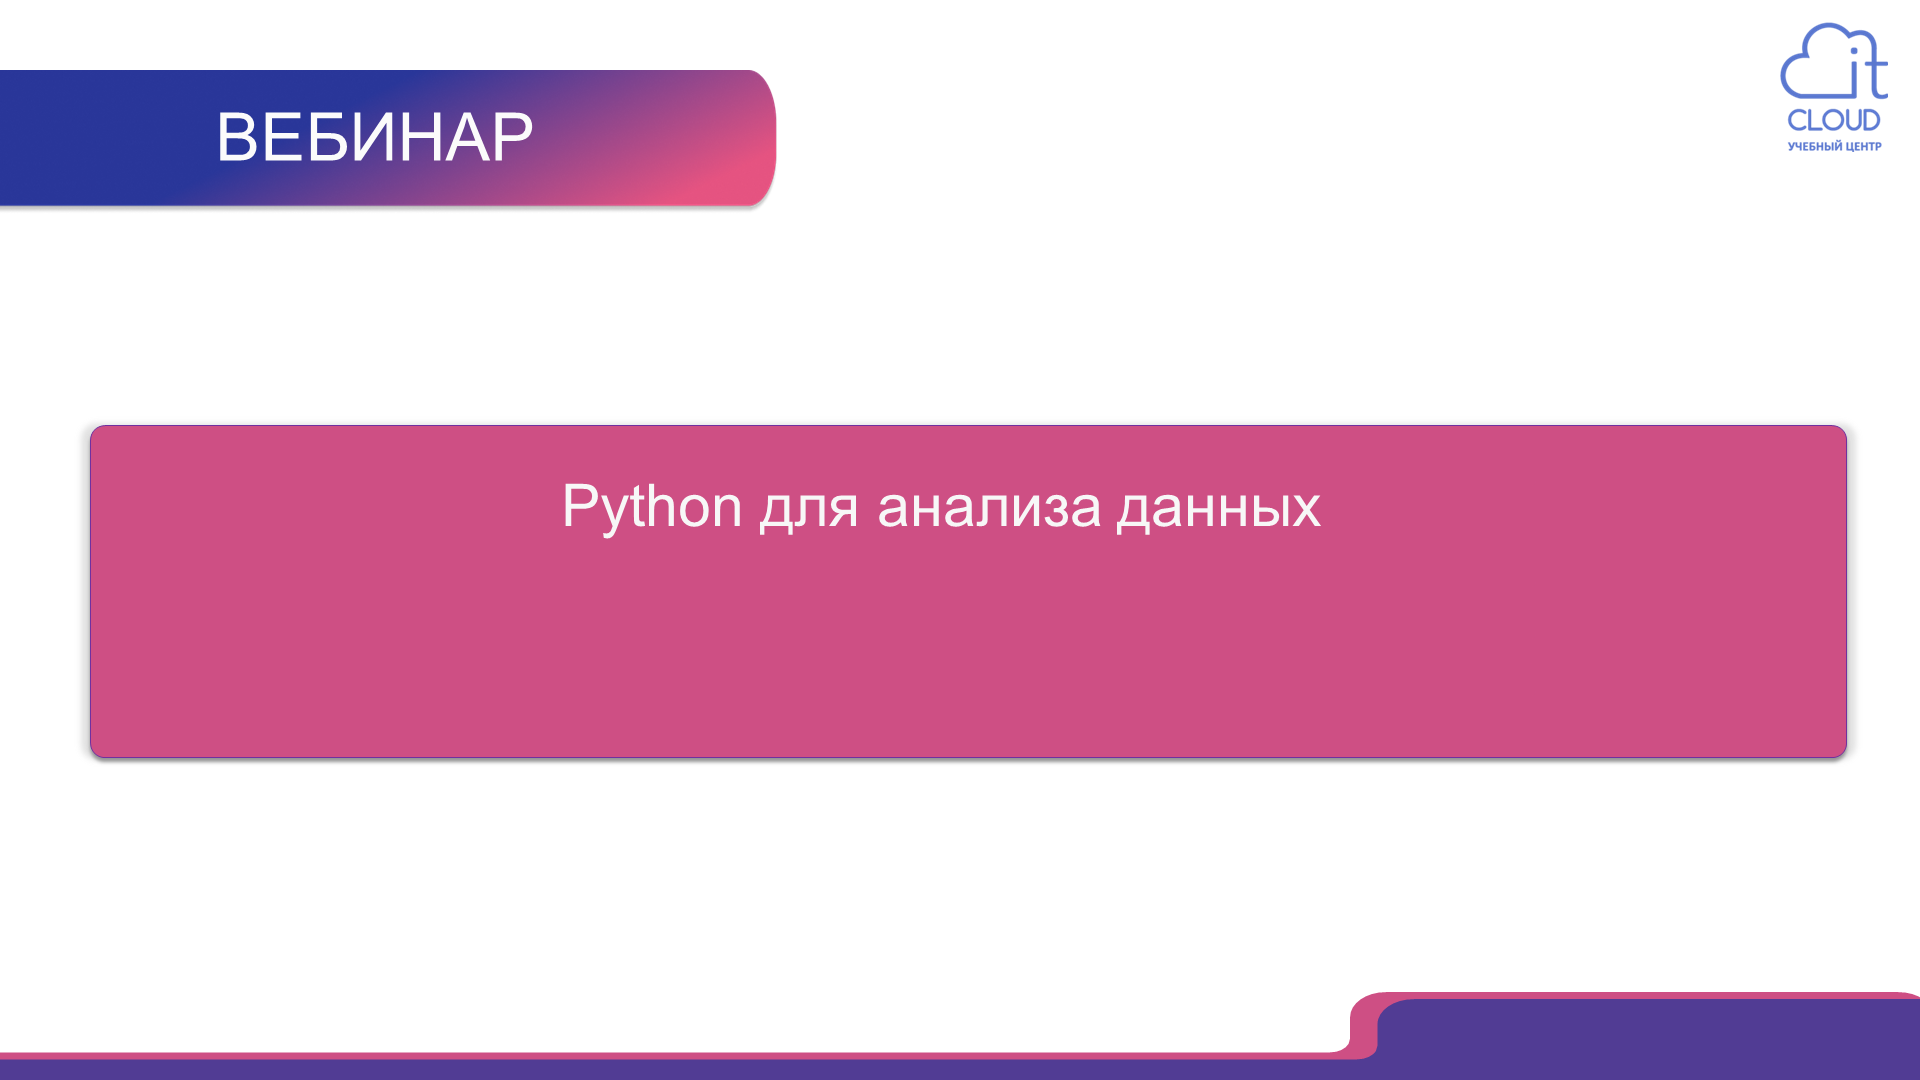
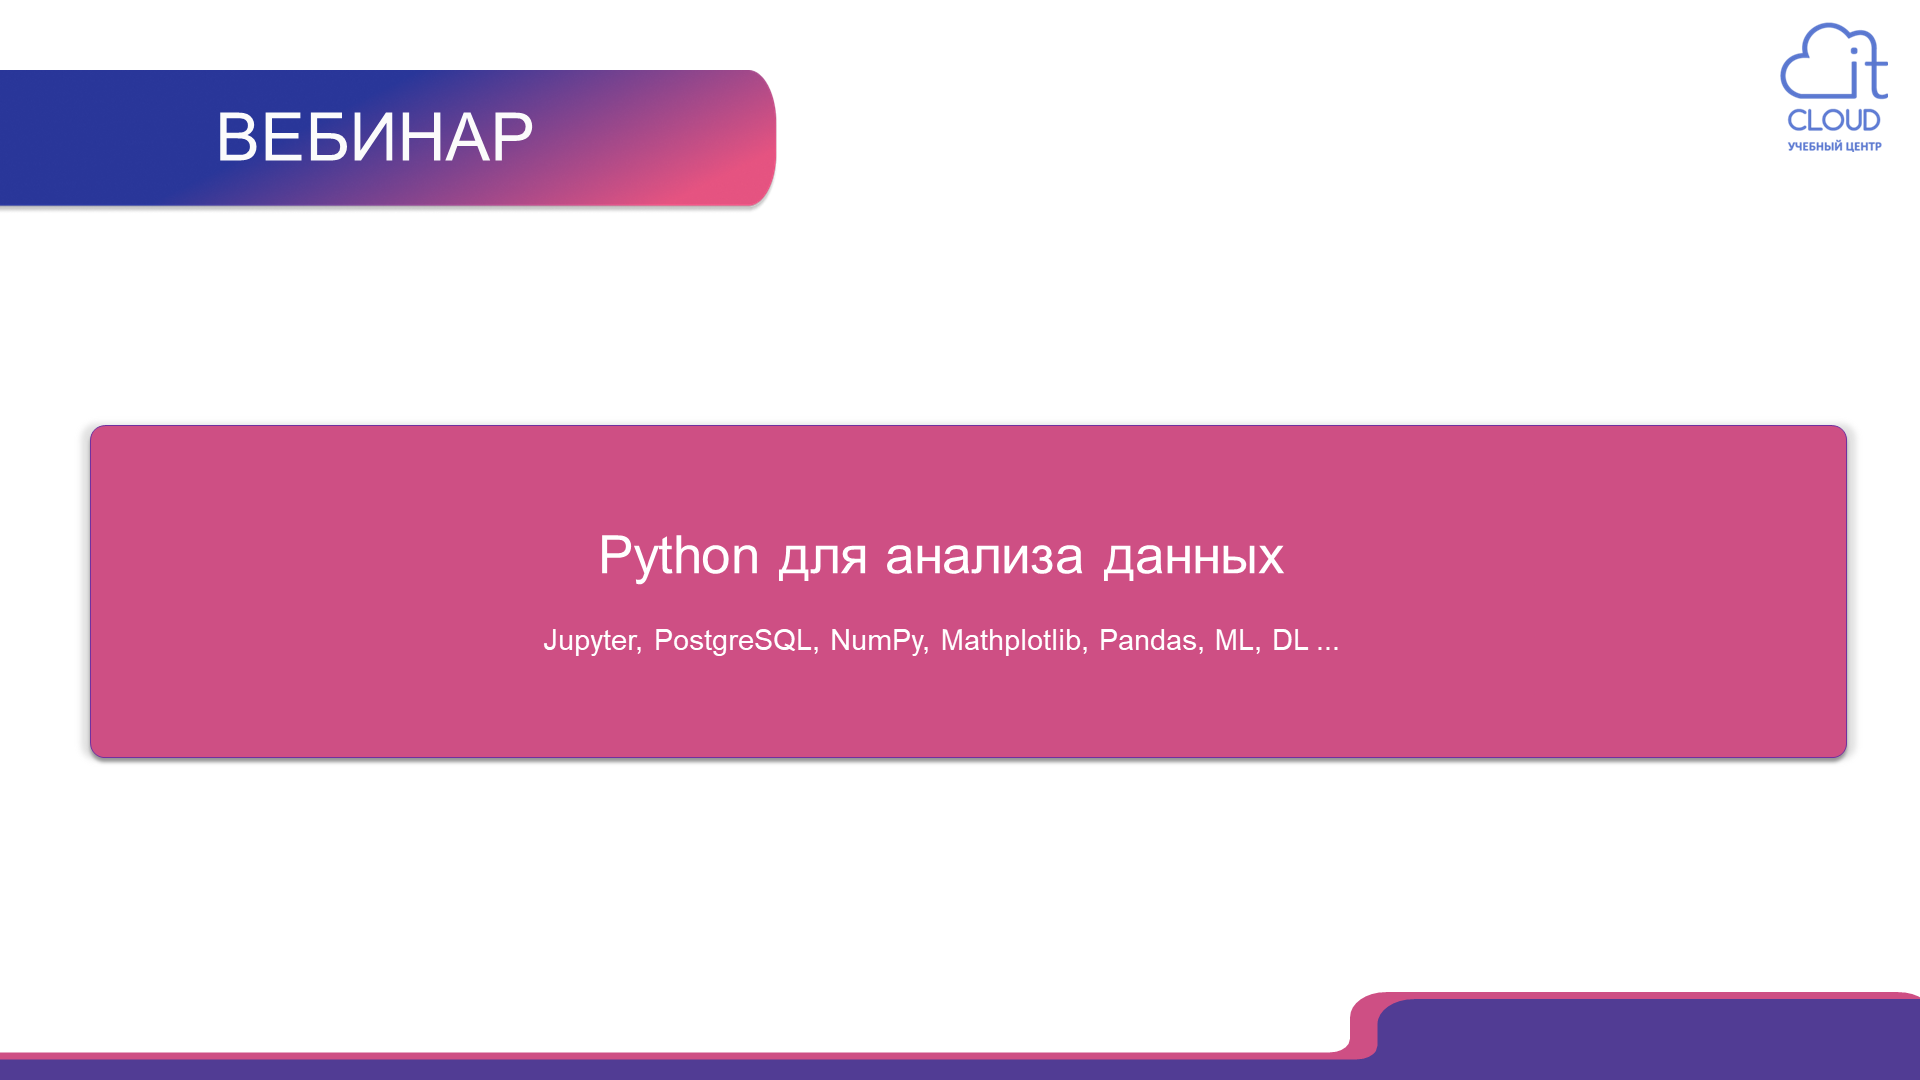
Add the course tool list under the title on slide 3.

Changed region(s): [[0.2812, 0.4278, 0.6875, 0.55], [0.2812, 0.5806, 0.6875, 0.6111]]

diff --git a/docs/slide3.html b/docs/slide3.html
@@ -7,7 +7,7 @@
   <link rel="stylesheet" href="course.css">
 </head>
 <body>
-  <img class="fullslide" src="slide3.png" alt="Python для анализа данных">
+  <img class="fullslide" src="slide3.png" alt="Python для анализа данных. Jupyter, PostgreSQL, NumPy, Mathplotlib, Pandas, ML, DL">
   <nav class="pager" aria-label="Слайды">
     <a href="index.html">1</a>
     <a href="slide2.html">2</a>
